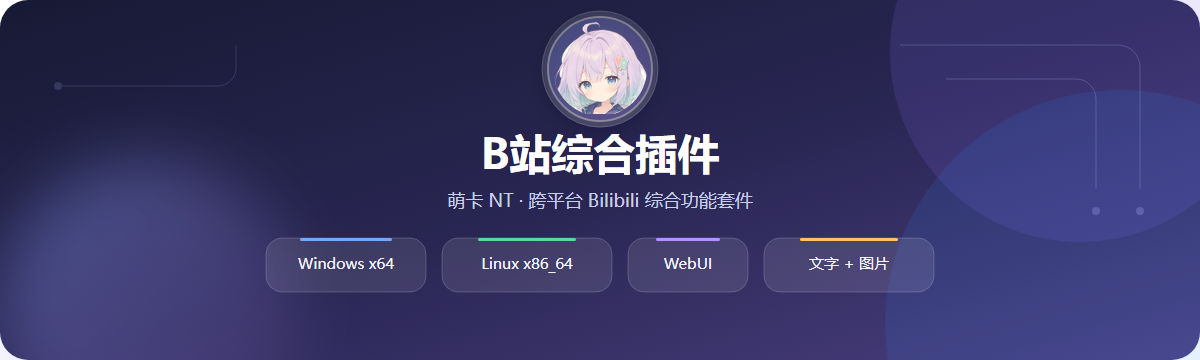
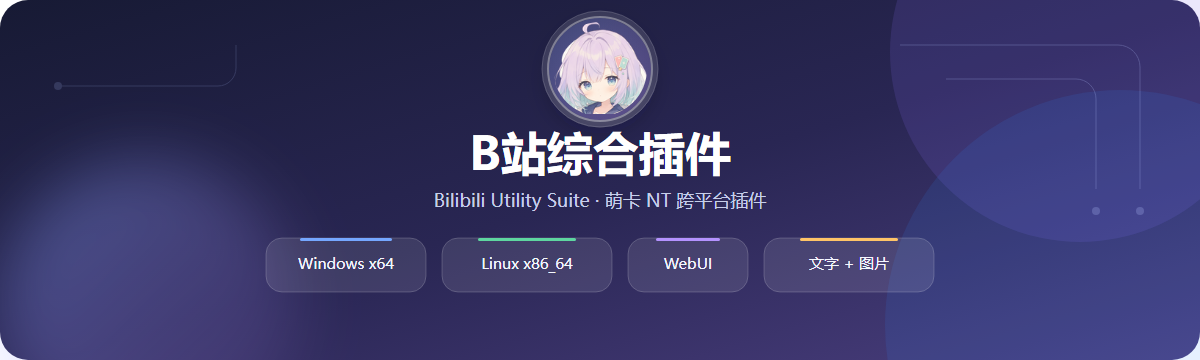
release: publish B站综合插件 1.3.5

Changed region(s): [[0.37, 0.3667, 0.6167, 0.4889], [0.3392, 0.5194, 0.6475, 0.5806]]

diff --git a/README.md b/README.md
@@ -1,5 +1,5 @@
 <div align="center">
-  <img src="bilibili-suite-cover.png" width="100%" alt="Bilibili Utility Suite（B站综合插件）" />
+  <img src="bilibili-suite-cover.png" width="100%" alt="B站综合插件" />
 
   <p>
     <a href="https://github.com/CarlorOfficial/Bilibili-Utility-Suite/releases/latest"><img src="https://img.shields.io/badge/下载-GitHub%20Releases-6C5CE7?style=flat-square" alt="GitHub Releases" /></a>
@@ -8,7 +8,8 @@
     <img src="https://img.shields.io/badge/消息-文字%20%2B%20图片-F59E0B?style=flat-square" alt="文字与图片消息" />
   </p>
 
-  <p><strong>Bilibili Utility Suite（B站综合插件）</strong></p>
+  <p><strong>B站综合插件</strong></p>
+  <p>Bilibili Utility Suite</p>
   <p>面向萌卡 NT 框架的 Bilibili 综合功能插件</p>
   <p>跨平台 WebUI · 多 QQ 独立授权与数据空间 · 本地图片渲染 · 签名在线更新</p>
 
@@ -24,7 +25,7 @@
 
 ## 项目简介
 
-Bilibili Utility Suite（B站综合插件）通过萌卡 NT 的正向 WebSocket 接收机器人事件，为群聊和私聊提供 Bilibili 查询、订阅、解析与通知能力。Windows 和 Linux 版本共用同一套 Web 管理界面，所有主要配置都可以在浏览器中完成。
+B站综合插件（Bilibili Utility Suite）通过萌卡 NT 的正向 WebSocket 接收机器人事件，为群聊和私聊提供 Bilibili 查询、订阅、解析与通知能力。Windows 和 Linux 版本共用同一套 Web 管理界面，所有主要配置都可以在浏览器中完成。
 
 插件遵循宿主能力，仅发送**文字与图片消息**，不依赖 Markdown。动态、视频和直播间等内容可使用本地渲染的图片卡片展示，文字模式同样会保留有用的封面或动态图片。
 

diff --git a/README.en.md b/README.en.md
@@ -1,5 +1,5 @@
 <div align="center">
-  <img src="bilibili-suite-cover.png" width="100%" alt="Bilibili Utility Suite" />
+  <img src="bilibili-suite-cover.png" width="100%" alt="B站综合插件" />
 
   <p>
     <a href="https://github.com/CarlorOfficial/Bilibili-Utility-Suite/releases/latest"><img src="https://img.shields.io/badge/download-GitHub%20Releases-6C5CE7?style=flat-square" alt="GitHub Releases" /></a>
@@ -7,7 +7,8 @@
     <img src="https://img.shields.io/badge/architecture-x86__64-00A884?style=flat-square" alt="x86_64" />
   </p>
 
-  <p><strong>Bilibili Utility Suite</strong></p>
+  <p><strong>B站综合插件</strong></p>
+  <p>Bilibili Utility Suite</p>
   <p>A cross-platform Bilibili feature suite for MoeCard NT</p>
   <p><a href="README.md">简体中文</a> · <a href="https://github.com/CarlorOfficial/Bilibili-Utility-Suite/releases/latest">Download</a> · <a href="https://github.com/CarlorOfficial/Bilibili-Utility-Suite/issues">Issues</a></p>
 </div>
@@ -16,7 +17,7 @@
 
 ## Overview
 
-Bilibili Utility Suite connects to MoeCard NT through a forward WebSocket service and provides Bilibili queries, subscriptions, link parsing, notifications, and locally rendered image cards for group and private chats.
+B站综合插件 (Bilibili Utility Suite) connects to MoeCard NT through a forward WebSocket service and provides Bilibili queries, subscriptions, link parsing, notifications, and locally rendered image cards for group and private chats.
 
 Windows and Linux share the same browser-based administration UI. The plugin sends plain text and image messages only and does not depend on Markdown support.
 

diff --git a/docs/release-notes/1.3.5.md b/docs/release-notes/1.3.5.md
@@ -1,0 +1,20 @@
+# B站综合插件 1.3.5 更新日志
+
+发布日期：2026-07-28
+
+## 在线更新
+
+- 【优化】在线更新新增 GitHub 多节点自动回退能力，网络波动或单一线路不可用时可自动切换备用节点并继续传输。
+- 【优化】WebUI 更新弹窗新增当前下载节点与备用节点状态，更新过程更加清晰可见。
+- 【优化】调整下载重试与超时策略，减少不可用线路造成的长时间等待，提高 Windows 与 Linux 在线更新的稳定性。
+
+## 品牌展示
+
+- 【调整】统一 WebUI、运行提示和发行文档中的主显示名称为“B站综合插件”。
+- 【兼容】英文名称 Bilibili Utility Suite 继续作为项目与发行标识，不影响原有安装目录、配置文件及业务数据。
+
+## 升级说明
+
+- Windows 与 Linux 用户均可在 WebUI 中检查并安装更新。
+- 更新完成后请按页面提示重启插件，以加载新版本。
+- 如当前网络环境无法使用在线更新，可前往 GitHub Releases 下载对应平台的发行包后覆盖升级。
